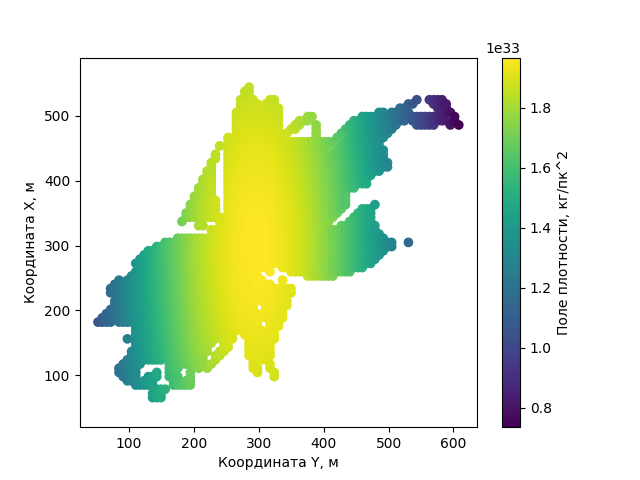
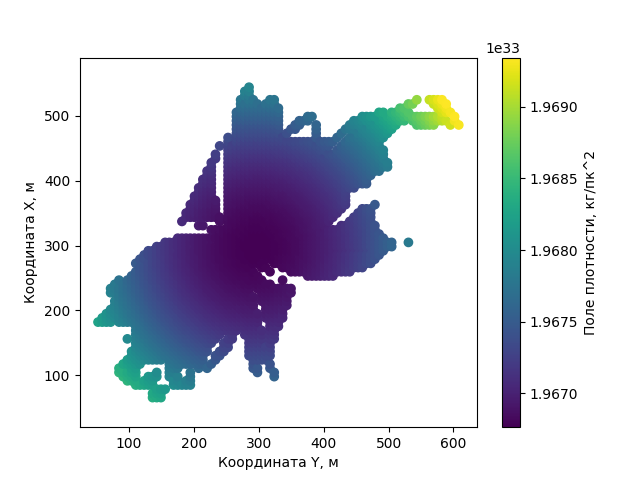
kmcgh,

diff --git a/stage_5/slide_1_density_and_concentrarion.py b/stage_5/slide_1_density_and_concentrarion.py
@@ -316,13 +316,17 @@ scale = 0.1 * len_unit ** 3 # характерная толщина туманн
 rho_s_in_pc = m * n * scale # плотность водорода в кг/пк^2
 
 def density_dist(x, y, x0=300, y0=300, intensity=100, dec_rate=[0.5, 0.5]):
-    scalar_func = intensity * np.exp(- dec_rate[0] * (x - x0)**2 - dec_rate[1] * (y - y0)**2) 
+    scalar_func = intensity / np.exp(- dec_rate[0] * (x - x0)**2 - dec_rate[1] * (y - y0)**2)
     return scalar_func
 
+
+
 fig, ax = plt.subplots()
-sc_plot = ax.scatter(x_p, y_p, c=density_dist(x_p, y_p, 300, 300, rho_s_in_pc, [0.00001, 0.000001]))
+sc_plot = ax.scatter(x_p, y_p, c=density_dist(x_p, y_p, 300, 300, rho_s_in_pc, [0.00000001, 0.00000001]))
 ax.set_ylabel('Координата Х, м')
 ax.set_xlabel('Координата Y, м')
+
+
 
 cbar = fig.colorbar(sc_plot)
 cbar.set_label("Поле плотности, кг/пк^2")
